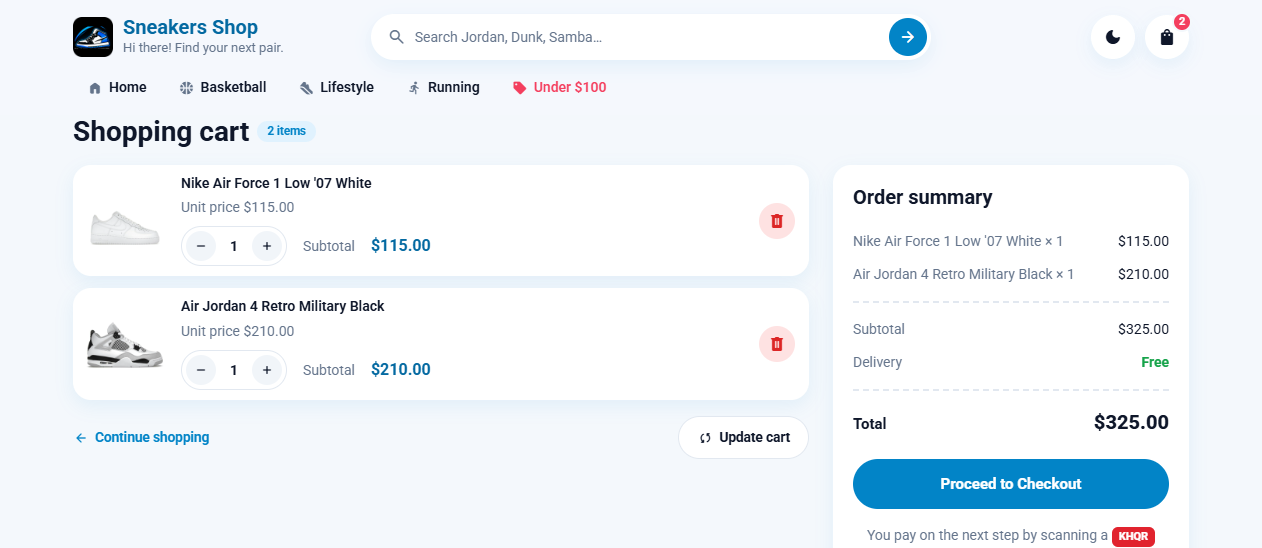
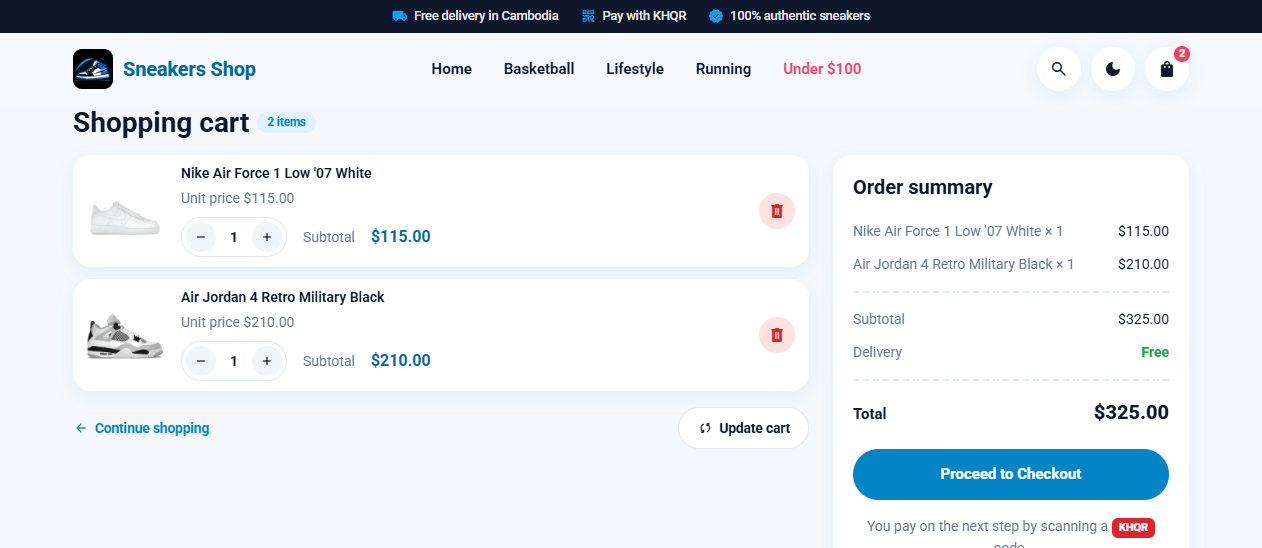
Rebuild the store header
- Thin announcement strip: free delivery, KHQR, 100% authentic.
- One header row: logo, menu (Home, Basketball, Lifestyle, Running,
  Under $100) with an underline on the current section, and search /
  theme / cart buttons.
- Search opens as a bar under the header from the search icon (or the
  / key), closes with Esc, and stays open on search results.
- Phones get a menu button that slides in a panel with the sections,
  cart, dark mode switch and shop perks.
- Fix: on phones the hidden filter panel left a large empty gap above
  the products; it is now a proper slide-in panel that fits the screen.

diff --git a/shop/static/css/style.css b/shop/static/css/style.css
@@ -153,41 +153,81 @@ html.dark .switch { background: var(--line); }
 .switch-row input:focus-visible + .switch { outline: 2px solid var(--brand); outline-offset: 2px; }
 
 /* =========================================================== STORE */
+/* announcement strip above the header */
+.announce { background: var(--ink); color: #e2e8f0; font-size: 12.5px; font-weight: 500; }
+html.dark .announce { background: #05070a; color: #cbd5e1; }
+.announce-inner { display: flex; justify-content: center; align-items: center; gap: 22px; margin: 0; padding: 7px 0; flex-wrap: wrap; row-gap: 2px; }
+.announce-inner span { display: inline-flex; align-items: center; gap: 6px; white-space: nowrap; }
+.announce-inner .ms { color: var(--brand-light); }
+
+/* header: logo · menu · actions in one row */
 .topbar { position: sticky; top: 0; z-index: 1030; background: color-mix(in srgb, var(--page) 88%, transparent); backdrop-filter: blur(14px);
-  transition: box-shadow .25s ease; }
-.topbar.is-scrolled { box-shadow: 0 6px 20px rgba(2, 132, 199, .1); }
-.brandbar { display: flex; align-items: center; gap: 14px; padding: 14px 0; }
+  border-bottom: 1px solid transparent; transition: box-shadow .25s ease, border-color .25s ease; }
+.topbar.is-scrolled { box-shadow: 0 6px 20px rgba(2, 132, 199, .1); border-bottom-color: var(--line); }
+.navrow { display: flex; align-items: center; gap: 14px; min-height: 72px; }
 .brand { display: inline-flex; align-items: center; gap: 10px; text-decoration: none; color: var(--ink); flex: none; }
 .brand img { width: 40px; height: 40px; }
-.brand strong { display: block; font-size: 20px; font-weight: 700; line-height: 1.1; color: var(--brand-dark); }
+.brand strong { display: block; font-size: 20px; font-weight: 800; line-height: 1.1; color: var(--brand-dark); letter-spacing: -.01em; }
 html.dark .brand strong { color: var(--brand); }
 .brand small { display: block; font-size: 13px; color: var(--muted); }
-.search-pill { flex: 1; max-width: 560px; margin: 0 auto; display: flex; align-items: center; gap: 8px; background: var(--card);
-  border-radius: 999px; padding: 4px 4px 4px 16px; box-shadow: var(--shadow); }
-.search-pill > .ms { color: var(--muted); }
-.search-pill input { flex: 1; border: 0; outline: 0; background: transparent; color: var(--ink); font-size: 14px; padding: 8px 0; min-width: 0; }
-.search-pill input::placeholder { color: var(--muted); }
-.search-pill button { width: 38px; height: 38px; border-radius: 50%; border: 0; background: var(--brand); color: var(--brand-on); display: grid; place-items: center; flex: none; }
+
+.mainnav { display: none; align-items: center; gap: 4px; margin: 0 auto; }
+.mainnav a { position: relative; padding: 10px 14px; color: var(--ink); font-weight: 600; font-size: 15px; text-decoration: none;
+  border-radius: 10px; transition: color .2s ease, background-color .2s ease; }
+.mainnav a::after { content: ""; position: absolute; left: 14px; right: 14px; bottom: 3px; height: 3px; border-radius: 3px;
+  background: currentColor; transform: scaleX(0); transition: transform .25s cubic-bezier(.22, 1, .36, 1); }
+.mainnav a:hover { color: var(--brand); }
+.mainnav a:hover::after { transform: scaleX(.5); }
+.mainnav a.active { color: var(--brand); }
+.mainnav a.active::after { transform: scaleX(1); }
+.mainnav a.deal { color: var(--coral); }
+.mainnav a:focus-visible { outline: 2px solid var(--brand); outline-offset: 2px; }
+@media (min-width: 992px) { .mainnav { display: flex; } }
+
 .bar-actions { display: flex; gap: 10px; margin-left: auto; }
-@media (max-width: 767.98px) {
-  .brandbar { flex-wrap: wrap; }
-  .search-pill { order: 3; flex-basis: 100%; max-width: none; }
-  .brand small { display: none; }
+@media (min-width: 992px) { .mainnav + .bar-actions { margin-left: 0; } }
+.round-btn[aria-expanded="true"] { background: var(--brand); color: var(--brand-on); }
+
+/* search opens under the bar */
+.search-panel { padding: 0 0 14px; }
+.search-panel:not([hidden]) { animation: rise .3s cubic-bezier(.22, 1, .36, 1) both; }
+.search-pill { max-width: 640px; margin: 0 auto; display: flex; align-items: center; gap: 8px; background: var(--card);
+  border-radius: 999px; padding: 4px 4px 4px 16px; box-shadow: var(--shadow); border: 1px solid var(--line); }
+.search-pill:focus-within { border-color: var(--brand); }
+.search-pill > .ms { color: var(--muted); }
+.search-pill input { flex: 1; border: 0; outline: 0; background: transparent; color: var(--ink); font-size: 15px; padding: 9px 0; min-width: 0; }
+.search-pill input::placeholder { color: var(--muted); }
+.search-pill button { width: 40px; height: 40px; border-radius: 50%; border: 0; background: var(--brand); color: var(--brand-on); display: grid; place-items: center; flex: none; }
+
+@media (max-width: 575.98px) {
+  .navrow { gap: 8px; min-height: 64px; }
+  .brand strong { font-size: 17px; }
+  .bar-actions { gap: 6px; }
+  .bar-actions [data-theme-toggle] { display: none; }  /* theme switch lives in the menu on phones */
 }
 
-/* header menu: shop sections */
-.mainnav { display: flex; gap: 4px; overflow-x: auto; scrollbar-width: none; margin: -4px 0 0; padding: 0 0 10px; }
-.mainnav::-webkit-scrollbar { display: none; }
-.mainnav a { flex: none; display: inline-flex; align-items: center; gap: 6px; padding: 7px 14px; border-radius: 999px;
-  color: var(--ink); font-weight: 600; font-size: 14px; text-decoration: none; transition: background-color .2s ease, color .2s ease; }
-.mainnav a .ms { color: var(--muted); transition: color .2s ease; }
-.mainnav a:hover { background: var(--card); color: var(--brand); }
-.mainnav a:hover .ms { color: var(--brand); }
-.mainnav a.active { background: var(--brand); color: var(--brand-on); }
-.mainnav a.active .ms { color: inherit; }
-.mainnav a.deal:not(.active) { color: var(--coral); }
-.mainnav a.deal:not(.active) .ms { color: var(--coral); }
-.mainnav a:focus-visible { outline: 2px solid var(--brand); outline-offset: 2px; }
+/* phone menu (slides in from the left) */
+.site-menu { --bs-offcanvas-width: min(86vw, 340px); --bs-offcanvas-bg: var(--page); --bs-offcanvas-color: var(--ink); border-right: 0 !important; }
+.site-menu .offcanvas-header { padding: 16px 18px; border-bottom: 1px solid var(--line); justify-content: space-between; gap: 12px; }
+.site-menu .offcanvas-body { padding: 14px 14px 24px; display: flex; flex-direction: column; gap: 16px; }
+.menu-list { display: grid; gap: 4px; }
+.menu-list a { display: flex; align-items: center; gap: 12px; padding: 10px 12px; border-radius: 16px; color: var(--ink);
+  font-weight: 600; font-size: 16px; text-decoration: none; transition: background-color .2s ease; }
+.menu-list .mi { width: 40px; height: 40px; border-radius: 12px; display: grid; place-items: center; background: var(--card); color: var(--brand); box-shadow: var(--shadow); }
+.menu-list .chev { margin-left: auto; color: var(--muted); }
+.menu-list a:hover { background: var(--card); }
+.menu-list a.active { background: var(--brand-tint); color: var(--brand-dark); }
+html.dark .menu-list a.active { color: var(--brand); }
+.menu-list a.deal .mi { color: var(--coral); }
+.menu-list a.active .mi { background: var(--brand); color: var(--brand-on); }
+.menu-cart { display: flex; align-items: center; gap: 10px; padding: 14px 16px; border-radius: 16px; background: var(--card); box-shadow: var(--shadow);
+  color: var(--ink); font-weight: 600; text-decoration: none; }
+.menu-cart .ms { color: var(--brand); }
+.menu-cart span:last-child { margin-left: auto; color: var(--muted); font-weight: 500; font-size: 13.5px; }
+.menu-perks { list-style: none; margin: auto 0 0; padding: 14px 6px 0; border-top: 1px solid var(--line); display: grid; gap: 10px; font-size: 13.5px; color: var(--muted); }
+.menu-perks li { display: flex; align-items: center; gap: 8px; }
+.menu-perks .ms { color: var(--brand); }
+.menu-theme { display: flex; align-items: center; justify-content: space-between; padding: 0 6px; font-weight: 600; }
 
 /* category pills (MA: Series Chips) */
 .pills { display: flex; gap: 8px; overflow-x: auto; padding: 4px 2px 10px; scrollbar-width: none; }
@@ -251,7 +291,7 @@ html.dark .brand strong { color: var(--brand); }
 @media (max-width: 991.98px) {
   .shop-layout { grid-template-columns: 1fr; gap: 0; }
   .filter-card { top: 0; }
-  .filter-card.offcanvas-lg { background: var(--card); color: var(--ink); }
+  .filter-card.offcanvas-lg { position: fixed; --bs-offcanvas-width: min(86vw, 340px); background: var(--card); color: var(--ink); }  /* slide-in panel, not in the page flow */
 }
 
 /* product card (MA: Product Card) */

diff --git a/shop/templates/base.html b/shop/templates/base.html
@@ -11,19 +11,42 @@
 <body class="{% block body_class %}{% endblock %}">
 <a class="skip-link" href="#main">Skip to content</a>
 {% block layout %}
+{% set on_index = request.endpoint == 'public.index' %}
+{% set cur_cat = request.args.get('category') if on_index else None %}
+{% set cur_max = request.args.get('max') if on_index else None %}
+{% set nav_links = [
+  ("Home", "home", url_for('public.index'), on_index and not cur_cat and not cur_max and not request.args.get('q')),
+  ("Basketball", "sports_basketball", url_for('public.index', category='Basketball'), cur_cat == 'Basketball'),
+  ("Lifestyle", "steps", url_for('public.index', category='Lifestyle'), cur_cat == 'Lifestyle'),
+  ("Running", "directions_run", url_for('public.index', category='Running'), cur_cat == 'Running'),
+  ("Under $100", "sell", url_for('public.index', max=100), not cur_cat and cur_max == '100'),
+] %}
+<div class="announce">
+  <div class="container">
+    <p class="announce-inner">
+      <span>{{ icon("local_shipping", "ms-sm") }} Free delivery in Cambodia</span>
+      <span>{{ icon("qr_code_2", "ms-sm") }} Pay with KHQR</span>
+      <span class="d-none d-md-inline-flex">{{ icon("verified", "ms-sm") }} 100% authentic sneakers</span>
+    </p>
+  </div>
+</div>
 <header class="topbar" data-elevate>
   <div class="container">
-    <div class="brandbar">
+    <div class="navrow">
+      <button type="button" class="round-btn d-lg-none" data-bs-toggle="offcanvas" data-bs-target="#site-menu" aria-controls="site-menu" aria-label="Open menu">{{ icon("menu") }}</button>
       <a class="brand" href="{{ url_for('public.index') }}">
         <img src="{{ url_for('static', filename='img/logo.png') }}" alt="" width="40" height="40">
-        <span><strong>Sneakers Shop</strong><small>Hi there! Find your next pair.</small></span>
+        <strong>Sneakers Shop</strong>
       </a>
-      <form class="search-pill" action="{{ url_for('public.index') }}" role="search">
-        {{ icon("search") }}
-        <input type="search" name="q" value="{{ q or '' }}" placeholder="Search Jordan, Dunk, Samba…" aria-label="Search products" maxlength="100">
-        <button aria-label="Search">{{ icon("arrow_forward") }}</button>
-      </form>
+      <nav class="mainnav" aria-label="Shop sections">
+        {% for label, ico, href, active in nav_links %}
+        <a href="{{ href }}" class="{{ 'active' if active }}{{ ' deal' if loop.last }}" {% if active %}aria-current="page"{% endif %}>{{ label }}</a>
+        {% endfor %}
+      </nav>
       <div class="bar-actions">
+        <button type="button" class="round-btn" data-search-toggle aria-controls="site-search" aria-expanded="{{ 'true' if q else 'false' }}" aria-label="Search" title="Search">
+          <span class="ms" data-search-icon aria-hidden="true">{{ 'close' if q else 'search' }}</span>
+        </button>
         <button type="button" class="round-btn" data-theme-toggle aria-label="Switch light or dark theme" title="Light or dark theme">
           <span class="ms" data-theme-icon aria-hidden="true">dark_mode</span>
         </button>
@@ -33,23 +56,46 @@
         </a>
       </div>
     </div>
-    {% set on_index = request.endpoint == 'public.index' %}
-    {% set cur_cat = request.args.get('category') if on_index else None %}
-    {% set cur_max = request.args.get('max') if on_index else None %}
-    {% set links = [
-      ("Home", "home", url_for('public.index'), on_index and not cur_cat and not cur_max and not request.args.get('q')),
-      ("Basketball", "sports_basketball", url_for('public.index', category='Basketball'), cur_cat == 'Basketball'),
-      ("Lifestyle", "steps", url_for('public.index', category='Lifestyle'), cur_cat == 'Lifestyle'),
-      ("Running", "directions_run", url_for('public.index', category='Running'), cur_cat == 'Running'),
-      ("Under $100", "sell", url_for('public.index', max=100), not cur_cat and cur_max == '100'),
-    ] %}
-    <nav class="mainnav" aria-label="Shop sections">
-      {% for label, ico, href, active in links %}
-      <a href="{{ href }}" class="{{ 'active' if active }}{{ ' deal' if loop.last }}" {% if active %}aria-current="page"{% endif %}>{{ icon(ico, "ms-sm") }}{{ label }}</a>
-      {% endfor %}
-    </nav>
+    <div class="search-panel" id="site-search" {% if not q %}hidden{% endif %}>
+      <form class="search-pill" action="{{ url_for('public.index') }}" role="search">
+        {{ icon("search") }}
+        <input type="search" name="q" value="{{ q or '' }}" placeholder="Search Jordan, Dunk, Samba…" aria-label="Search products" maxlength="100">
+        <button aria-label="Search">{{ icon("arrow_forward") }}</button>
+      </form>
+    </div>
   </div>
 </header>
+
+<div class="offcanvas offcanvas-start site-menu" tabindex="-1" id="site-menu" aria-labelledby="site-menu-title">
+  <div class="offcanvas-header">
+    <a class="brand" href="{{ url_for('public.index') }}">
+      <img src="{{ url_for('static', filename='img/logo.png') }}" alt="" width="40" height="40">
+      <strong id="site-menu-title">Sneakers Shop</strong>
+    </a>
+    <button type="button" class="round-btn" data-bs-dismiss="offcanvas" aria-label="Close menu">{{ icon("close") }}</button>
+  </div>
+  <div class="offcanvas-body">
+    <nav class="menu-list" aria-label="Shop sections">
+      {% for label, ico, href, active in nav_links %}
+      <a href="{{ href }}" class="{{ 'active' if active }}{{ ' deal' if loop.last }}" {% if active %}aria-current="page"{% endif %}>
+        <span class="mi">{{ icon(ico) }}</span>{{ label }}{{ icon("chevron_right", "ms-sm chev") }}
+      </a>
+      {% endfor %}
+    </nav>
+    <a class="menu-cart" href="{{ url_for('public.view_cart') }}">{{ icon("shopping_bag") }} Your cart<span>{{ cart_count }} item{{ '' if cart_count == 1 else 's' }}</span></a>
+    <div class="menu-theme">
+      <span>Dark mode</span>
+      <button type="button" class="round-btn" data-theme-toggle aria-label="Switch light or dark theme" title="Light or dark theme">
+        <span class="ms" data-theme-icon aria-hidden="true">dark_mode</span>
+      </button>
+    </div>
+    <ul class="menu-perks">
+      <li>{{ icon("local_shipping", "ms-sm") }} Free delivery in Cambodia</li>
+      <li>{{ icon("qr_code_2", "ms-sm") }} Pay with KHQR from any banking app</li>
+      <li>{{ icon("verified", "ms-sm") }} 100% authentic sneakers</li>
+    </ul>
+  </div>
+</div>
 
 <main id="main" class="{% block main_class %}pb-4{% endblock %} page-enter">
   <div class="container">

diff --git a/shop/static/js/motion.js b/shop/static/js/motion.js
@@ -175,11 +175,24 @@
     }
   });
 
-  /* ---------- header menu: on phones, scroll the current section into view ---------- */
-  const navActive = document.querySelector('.mainnav a.active');
-  if (navActive) {
-    const nav = navActive.parentElement;
-    nav.scrollLeft = navActive.offsetLeft - (nav.clientWidth - navActive.offsetWidth) / 2;
+  /* ---------- header search: the icon opens a search bar under the header ---------- */
+  const searchBtn = document.querySelector('[data-search-toggle]');
+  const searchPanel = searchBtn && document.getElementById(searchBtn.getAttribute('aria-controls'));
+  if (searchPanel) {
+    const searchIcon = searchBtn.querySelector('[data-search-icon]');
+    const setSearch = (open) => {
+      searchPanel.hidden = !open;
+      searchBtn.setAttribute('aria-expanded', String(open));
+      searchIcon.textContent = open ? 'close' : 'search';
+      if (open) searchPanel.querySelector('input')?.focus();
+    };
+    searchBtn.addEventListener('click', () => setSearch(searchPanel.hidden));
+    document.addEventListener('keydown', e => {
+      if (e.key === 'Escape' && !searchPanel.hidden) { setSearch(false); searchBtn.focus(); }
+      if (e.key === '/' && searchPanel.hidden && !/input|textarea|select/i.test(document.activeElement?.tagName || '')) {
+        e.preventDefault(); setSearch(true);
+      }
+    });
   }
 
   /* ---------- admin sidebar (slides in below 992px) ---------- */

diff --git a/tests/test_shop.py b/tests/test_shop.py
@@ -321,8 +321,15 @@ def test_pad_crop_keeps_whole_wide_photo():
 
 def test_header_menu_marks_current_section(client):
     html = client.get("/").get_data(as_text=True)
-    assert 'class="mainnav"' in html and "Under $100" in html
+    assert 'class="mainnav"' in html and 'id="site-menu"' in html and "Under $100" in html
+    assert 'id="site-search" hidden' in html  # search starts closed
     html = client.get("/?category=Running").get_data(as_text=True)
-    assert 'href="/?category=Running" class="active"' in html
+    assert html.count('href="/?category=Running" class="active"') == 2  # desktop menu + phone menu
     html = client.get("/?max=100").get_data(as_text=True)
     assert 'class="active deal"' in html
+
+
+def test_header_search_open_on_results(client):
+    html = client.get("/?q=jordan").get_data(as_text=True)
+    assert 'id="site-search" hidden' not in html
+    assert 'aria-expanded="true"' in html and 'value="jordan"' in html
